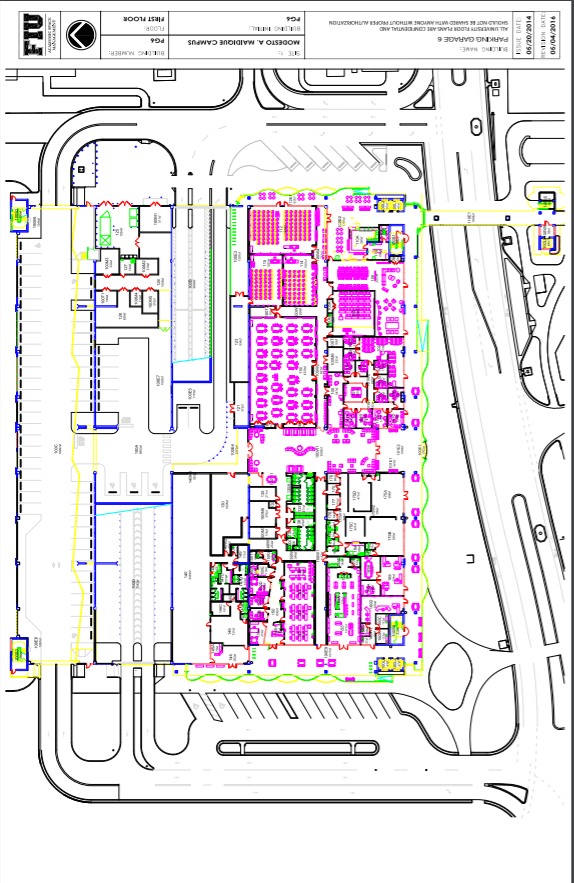
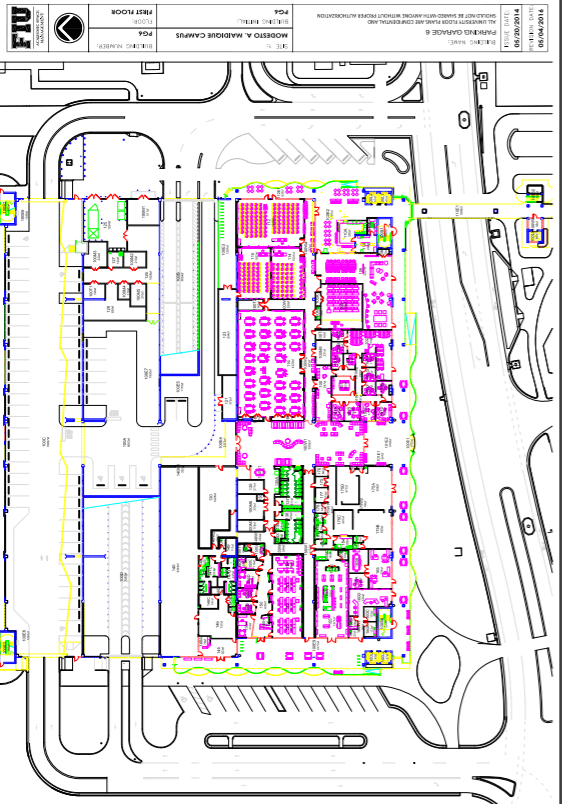
fixed issue displaying maps

diff --git a/src/screen/Map.js b/src/screen/Map.js
@@ -15,11 +15,14 @@ const styles = StyleSheet.create({
     container: {
         flex: 1,
         alignItems: 'center',
-        justifyContent: 'center'
+        justifyContent: 'center',
+        height:'100%',
+        width:'100%'
     },
     imagestyle: {
         height: '100%',
-        width: '100%'
+        width: '100%',
+        resizeMode:'stretch'
     }
 
 });
